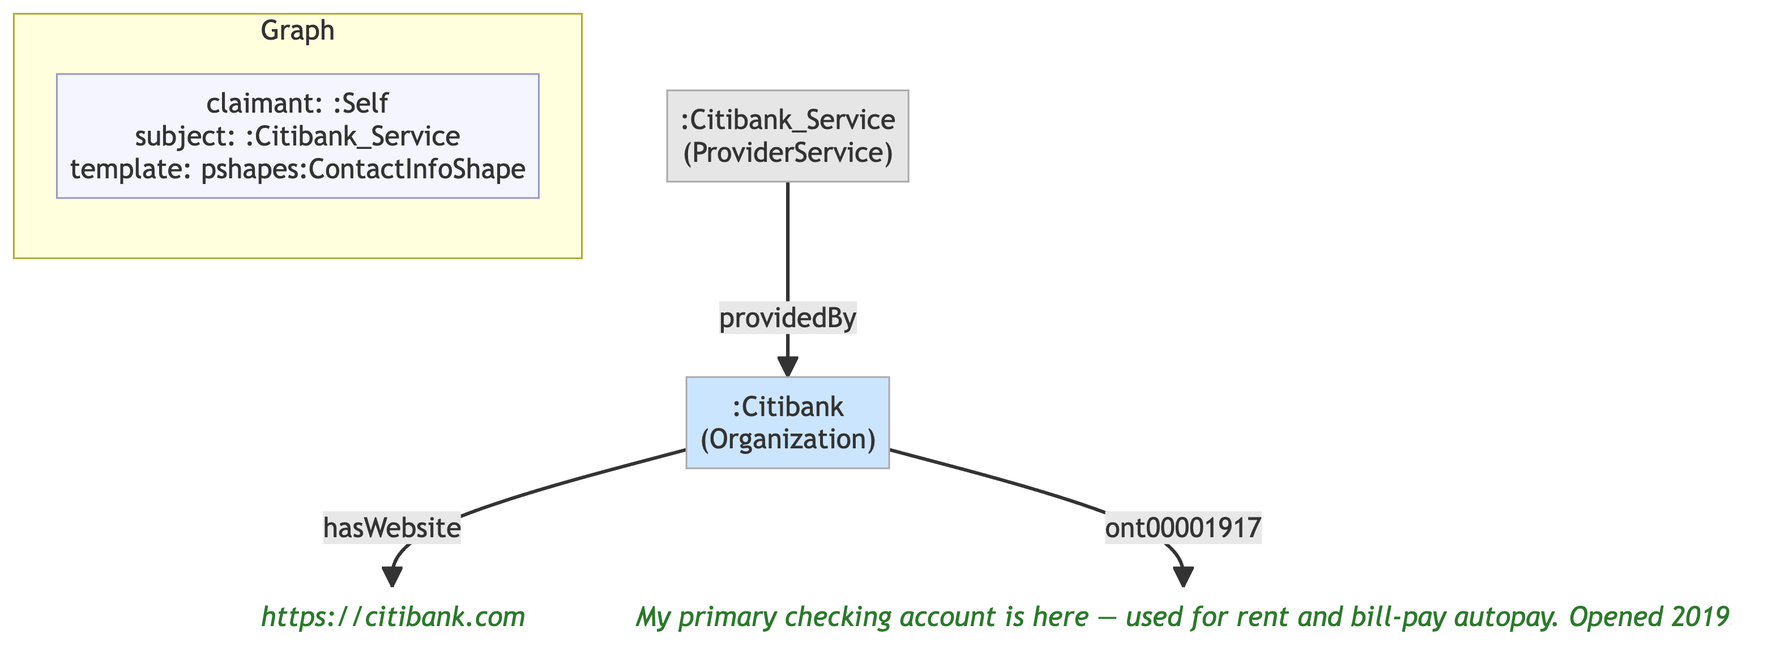
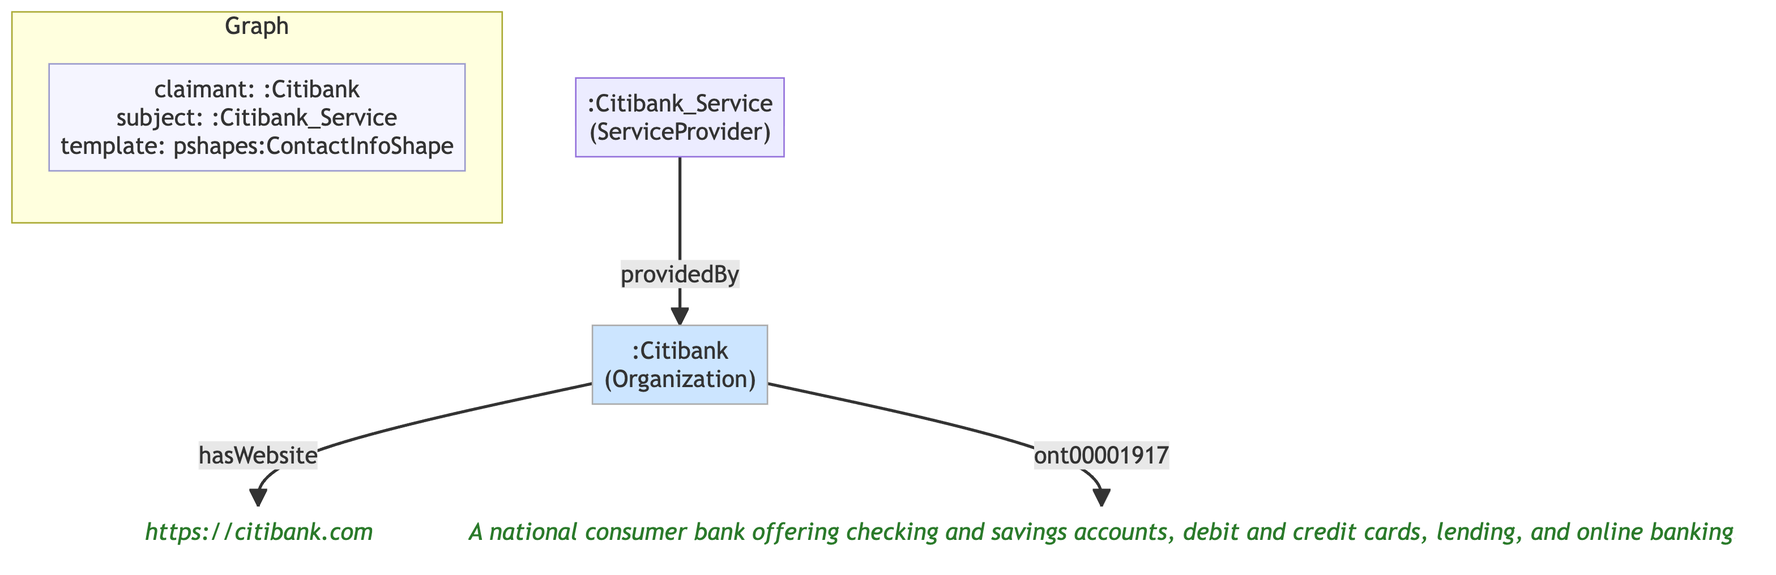
Graph 27: Citibank claims its own member entry
The Citibank cell now mirrors the Boston Hub Society cell, where graph 01
is already a member entry with subject :BHS_Service and claimant :BHS.

- graph-27 claimant :Self -> :Citibank. Per cell.ttl's cell:claimant comment
  and CLAUDE.md's claimant vocabulary, a service:ServiceProvider's content is
  attributed to the service:providedBy organization behind it, not to the
  service individual, so the claimant is :Citibank rather than
  :Citibank_Service. Subject stays :Citibank_Service.
- graph-27 body is now the identity the bank presents as a member: name,
  website, and a neutral institutional self-description, mirroring graph 01.
- Alice's own first-person note about banking at Citibank moves to graph-77,
  her own member entry, still asserted on :Citibank.
- Overviews, cell description, EXAMPLE.md prose and table rows, CLAUDE.md
  table rows and PDN-interoperable graph list, and integrity.md's Check 26
  exemption text updated to match.
- Regenerated graph-27/graph-77 per-graph diagrams.

Verified: both graphs parse; helpers/validate.py 0 violations; Checks
21/23/24/25/26/27/28 clean.

diff --git a/EXAMPLE.md b/EXAMPLE.md
@@ -52,7 +52,7 @@ A `s:BackupService` differs from the `s:ServiceProvider` in the *Citibank* and *
 
 ### Checking Account and Debit Card
 
-Alice has a checking account (and associated debit card) at Citibank. In our example Citibank is compatible with PDN and participates directly, claiming this cell's own topic content — a debit card, a checking account, and Citibank's own record of Alice's online service account — in [graph 76](<example/Cells/Finances/Banking & Payments Firms/Citibank/Citibank(banking-payments).databook.md#graph-76>). It is colored green because the claimant is Citibank, not Alice. Alice separately self-asserts her own username and password for that same online account in [graph 75](<example/Cells/Finances/Banking & Payments Firms/Citibank/Citibank(banking-payments).databook.md#graph-75>), and asserts her own notes about Citibank as an institution in [graph 27](<example/Cells/Finances/Banking & Payments Firms/Citibank/Citibank(banking-payments).databook.md#graph-27>). Alice's own required given-name member entry is [graph 77](<example/Cells/Finances/Banking & Payments Firms/Citibank/Citibank(banking-payments).databook.md#graph-77>).
+Alice has a checking account (and associated debit card) at Citibank. In our example Citibank is compatible with PDN and participates directly, claiming this cell's own topic content — a debit card, a checking account, and Citibank's own record of Alice's online service account — in [graph 76](<example/Cells/Finances/Banking & Payments Firms/Citibank/Citibank(banking-payments).databook.md#graph-76>). It is colored green because the claimant is Citibank, not Alice. Citibank also claims its own member entry, [graph 27](<example/Cells/Finances/Banking & Payments Firms/Citibank/Citibank(banking-payments).databook.md#graph-27>) — the identity the bank presents as one of the cell's two members, carried by `:Citibank_Service`, the `s:ServiceProvider` it provides — and that graph is green for the same reason. Alice separately self-asserts her own username and password for that same online account in [graph 75](<example/Cells/Finances/Banking & Payments Firms/Citibank/Citibank(banking-payments).databook.md#graph-75>). Her own required given-name member entry is [graph 77](<example/Cells/Finances/Banking & Payments Firms/Citibank/Citibank(banking-payments).databook.md#graph-77>), which also carries her own notes about Citibank as an institution.
 
 <p align="center"><img src="example/images/finances.png" alt="Financial cells"></p>
 
@@ -213,7 +213,7 @@ The graphs in the table below are *about* Alice and claimed *by* Alice. The "Cel
 | 62 | [RAV4(vehicles).databook.md](<example/Cells/Things/Vehicles/RAV4/RAV4(vehicles).databook.md#graph-62>) {44} | `cat:Vehicles`     | The RAV4 cell's required member entry — carries her given name (required by `ContactInfoShape`, `c:memberGraphShape`, since this template is `isTopicCell: true`), plus an optional organization name and email          | [view](example/graphs/images/graph-62.png) |
 | 66 | [Kyoto Trip 2027(trips).databook.md](<example/Cells/Travel/Trips/Kyoto Trip 2027/Kyoto Trip 2027(trips).databook.md#graph-66>) {47} | `cat:Trips` | Alice's bare given-name claim, extended with her social network link to Dave — one of the Kyoto Trip cell's three required member entries | [view](example/graphs/images/graph-66.png) |
 | 75 | [Citibank(banking-payments).databook.md](<example/Cells/Finances/Banking & Payments Firms/Citibank/Citibank(banking-payments).databook.md#graph-75>) {4} | `cat:BankingPayments` | Alice's own self-asserted claim about her Citibank online service account — username and password as she herself knows them, distinct from Citibank's own record (graph 76) | [view](example/graphs/images/graph-75.png) |
-| 77 | [Citibank(banking-payments).databook.md](<example/Cells/Finances/Banking & Payments Firms/Citibank/Citibank(banking-payments).databook.md#graph-77>) {4} | `cat:BankingPayments` | The Citibank cell's second required member entry, claimed by and about Alice — a minimal given-name stub, so `:Self` is a genuine member of the cell alongside `:Citibank` (graph 27) | [view](example/graphs/images/graph-77.png) |
+| 77 | [Citibank(banking-payments).databook.md](<example/Cells/Finances/Banking & Payments Firms/Citibank/Citibank(banking-payments).databook.md#graph-77>) {4} | `cat:BankingPayments` | The Citibank cell's second required member entry, claimed by and about Alice — a minimal given-name stub, so `:Self` is a genuine member of the cell alongside `:Citibank_Service` (graph 27), plus her own notes about Citibank as an institution, asserted on `:Citibank` | [view](example/graphs/images/graph-77.png) |
 
 The following table lists graphs that are *about* Alice but claimed by others.
 
@@ -241,7 +241,7 @@ The following table lists graphs about other people (Sophia, Dave, Paula and Bob
 | 26 | [Medical Appointment.databook.md](<example/Cells/People/Immediate Family/Sophia Walker/Health & Wellness/Medical/Provider/Medical Appointment/Medical Appointment.databook.md#graph-26>) {15} | `cat:MedicalAppointment`       | Alice and Dave's shared claims for Sophia's medical appointment — medications, allergies, insurance, PCP reference           | [view](example/graphs/images/graph-26.png)|
 | 28 | [Medical Appointment.databook.md](<example/Cells/People/Immediate Family/Sophia Walker/Health & Wellness/Medical/Provider/Medical Appointment/Medical Appointment.databook.md#graph-28>) {15} | `cat:MedicalAppointment`       | Dave's own self-claimed persona and contact info — one of this cell's two members, alongside Alice (graph 30)           | [view](example/graphs/images/graph-28.png) |
 | 30 | [Medical Appointment.databook.md](<example/Cells/People/Immediate Family/Sophia Walker/Health & Wellness/Medical/Provider/Medical Appointment/Medical Appointment.databook.md#graph-30>) {15} | `cat:MedicalAppointment`       | Alice's own self-claimed contact info — the other of this cell's two members, alongside Dave (graph 28)           | [view](example/graphs/images/graph-30.png) |
-| 27 | [Citibank(banking-payments).databook.md](<example/Cells/Finances/Banking & Payments Firms/Citibank/Citibank(banking-payments).databook.md#graph-27>) {4} | `cat:BankingPayments` | The Citibank cell's other required `member` entry — `:Citibank_Service`, the `s:ServiceProvider` that joins as the member, plus Alice's own self-claimed notes about Citibank as an institution, asserted on `:Citibank`; claimed by Alice, alongside Citibank's own claimed record about her (graph 76) | [view](example/graphs/images/graph-27.png) |
+| 27 | [Citibank(banking-payments).databook.md](<example/Cells/Finances/Banking & Payments Firms/Citibank/Citibank(banking-payments).databook.md#graph-27>) {4} | `cat:BankingPayments` | The Citibank cell's other required `member` entry — the identity Citibank presents as a member, carried by `:Citibank_Service`, the `s:ServiceProvider` the bank provides, plus the bank's own name, website, and institutional self-description on `:Citibank`; claimed by Citibank, alongside its own claimed record about Alice (graph 76) | [view](example/graphs/images/graph-27.png) |
 | 31 | [Fred Flintstone(others).databook.md](<example/Cells/People/Others/Fred Flintstone/Fred Flintstone(others).databook.md#graph-31>) {17}                     | `cat:Others`       | Fred's self-claimed Fred persona                                 | [view](example/graphs/images/graph-31.png) |
 | 32 | [Medical.databook.md](<example/Cells/Pets/Ginger/Medical/Medical.databook.md#graph-32>) {40} | `cat:PetsMedical`       | Alice's record of her cat Ginger's medications — amoxicillin/clavulanate course, ongoing glucosamine/chondroitin supplement           | [view](example/graphs/images/graph-32.png)|
 | 37 | [Ginger(pets).databook.md](<example/Cells/Pets/Ginger/Ginger(pets).databook.md#graph-37>) {41} | `cat:Pets`       | Alice's basic claim identifying Ginger — name, species (Felis catus, NCBITaxon), breed (Mixed Breed (Cat), VBO), birth date, and current body weight — backs the Ginger cell's `subject: ":Ginger"` with a real graph, typed `pets:Pet`           | [view](example/graphs/images/graph-37.png)|

diff --git a/integrity.md b/integrity.md
@@ -612,7 +612,7 @@ print('All cells satisfy the topic-claimant invariants (member-only, distinct).'
 
 If a violation is found: for a `topic` claimed by a non-member, either add that claimant as a new `member` entry first, or — if the claimant is the organization behind a `service:ServiceProvider` that is already a member — add the missing `service:providedBy` triple to that service's own member graph, or reconsider whether the claim really belongs in this cell's `topic` at all. For a repeated claimant across two `topic` entries, merge the two graphs' content into one — a single member can only make one claim about the cell's topic, not two.
 
-**Check 26 — `cell:template`'s declared shape must resolve to an `rdf:type` actually asserted in the graph's own embedded Turtle body**: `cell:template` (`cell.ttl`) is a real `owl:AnnotationProperty` (domain `cell:Graph`, range `sh:NodeShape`, cardinality 0..N), synthesized into RDF from each `mia.member[]`/`mia.topic[].template` YAML value by `helpers/yaml-to-rdf.py`. But SHACL validation of a templated graph never actually reads this synthesized triple — each per-template shape (e.g. `:PassportShape`) fires purely via its own `sh:targetClass`, matching whatever `rdf:type` is asserted directly in the graph's body (e.g. `:Alice_US_Passport rdf:type identitydocuments:Passport`), completely independent of `template:`. So nothing else cross-checks that a graph's declared `template:` shape's own `sh:targetClass` actually names a class asserted on an individual in its own body — a typo'd or stale `template:` value would go undetected, silently decoupled from what SHACL is actually validating. This is not itself an OWL/SHACL-expressible constraint (same reasoning as Checks 18/21/23/24/25 — it requires dereferencing the graph's own embedded Turtle content, not just its YAML frontmatter), so it's checked here instead. For every cell-databook under `example/Cells/` (excluding `under-development/`) with a `mia.member[]`/`mia.topic[].template` value, resolve that shape CURIE to its own `sh:targetClass` (scanning `shacl/persona-shacl.ttl`/`shacl/contactinfo-shacl.ttl` and every `other/shacl/*-shacl.ttl` file for the matching shape, the same scan Check 27 already runs), then verify that same graph's own embedded Turtle body asserts `rdf:type` (directly, on some individual) to that resolved class. **Exempt**: `pshapes:ContactInfoShape` — per `helpers/validate.py`'s own module docstring, this is the one broad, class-wide shape (`sh:targetClass persona:Person`) that `helpers/validate.py` re-targets, at actual validation time, at only the *substantive* `persona:Person` individual(s) present in a graph, precisely because it's legitimate for a `cell:member`-list graph (required to carry this shape unconditionally, per Check 30) to contain none at all — e.g. graph-01 (`Boston Hub Society(affiliations).databook.md`) is the society's own member stub, typing `:BHS_Service` as `service:ServiceProvider` and `:BHS` as `o:Organization`, never `persona:Person`; graph-27 (`Citibank(banking-payments).databook.md`) is the bank's member stub carrying Alice's own note about Citibank as an institution, typing `:Citibank_Service`/`:Citibank` the same way; and graph-96 (`Arca(companies).databook.md`) is a backup service's own member stub, typing `:Arca_Backup` as `service:BackupService` and `:Arca` as `o:Organization` — both correctly, vacuously satisfy `ContactInfoShape` in real SHACL validation with zero `persona:Person` individuals present. Every other shape (e.g. `idocshapes:PassportShape`, `bankingshapes:DebitCardShape`) targets a narrow, specific document/account class that a declaring graph always does instantiate for real (e.g. the real Citibank debit-card graph asserts `rdf:type cco:ent00000051` directly, alongside `banking:DebitCard`), so no other exemption is needed. Run:
+**Check 26 — `cell:template`'s declared shape must resolve to an `rdf:type` actually asserted in the graph's own embedded Turtle body**: `cell:template` (`cell.ttl`) is a real `owl:AnnotationProperty` (domain `cell:Graph`, range `sh:NodeShape`, cardinality 0..N), synthesized into RDF from each `mia.member[]`/`mia.topic[].template` YAML value by `helpers/yaml-to-rdf.py`. But SHACL validation of a templated graph never actually reads this synthesized triple — each per-template shape (e.g. `:PassportShape`) fires purely via its own `sh:targetClass`, matching whatever `rdf:type` is asserted directly in the graph's body (e.g. `:Alice_US_Passport rdf:type identitydocuments:Passport`), completely independent of `template:`. So nothing else cross-checks that a graph's declared `template:` shape's own `sh:targetClass` actually names a class asserted on an individual in its own body — a typo'd or stale `template:` value would go undetected, silently decoupled from what SHACL is actually validating. This is not itself an OWL/SHACL-expressible constraint (same reasoning as Checks 18/21/23/24/25 — it requires dereferencing the graph's own embedded Turtle content, not just its YAML frontmatter), so it's checked here instead. For every cell-databook under `example/Cells/` (excluding `under-development/`) with a `mia.member[]`/`mia.topic[].template` value, resolve that shape CURIE to its own `sh:targetClass` (scanning `shacl/persona-shacl.ttl`/`shacl/contactinfo-shacl.ttl` and every `other/shacl/*-shacl.ttl` file for the matching shape, the same scan Check 27 already runs), then verify that same graph's own embedded Turtle body asserts `rdf:type` (directly, on some individual) to that resolved class. **Exempt**: `pshapes:ContactInfoShape` — per `helpers/validate.py`'s own module docstring, this is the one broad, class-wide shape (`sh:targetClass persona:Person`) that `helpers/validate.py` re-targets, at actual validation time, at only the *substantive* `persona:Person` individual(s) present in a graph, precisely because it's legitimate for a `cell:member`-list graph (required to carry this shape unconditionally, per Check 30) to contain none at all — e.g. graph-01 (`Boston Hub Society(affiliations).databook.md`) is the society's own member stub, typing `:BHS_Service` as `service:ServiceProvider` and `:BHS` as `o:Organization`, never `persona:Person`; graph-27 (`Citibank(banking-payments).databook.md`) is the bank's own member stub, carrying its name, website, and institutional self-description, typing `:Citibank_Service`/`:Citibank` the same way; and graph-96 (`Arca(companies).databook.md`) is a backup service's own member stub, typing `:Arca_Backup` as `service:BackupService` and `:Arca` as `o:Organization` — both correctly, vacuously satisfy `ContactInfoShape` in real SHACL validation with zero `persona:Person` individuals present. Every other shape (e.g. `idocshapes:PassportShape`, `bankingshapes:DebitCardShape`) targets a narrow, specific document/account class that a declaring graph always does instantiate for real (e.g. the real Citibank debit-card graph asserts `rdf:type cco:ent00000051` directly, alongside `banking:DebitCard`), so no other exemption is needed. Run:
 
 ```python
 import re, yaml, glob

diff --git a/CLAUDE.md b/CLAUDE.md
@@ -39,8 +39,8 @@ Every graph below is an embedded section (a `mia.member`/`mia.topic` entry + `##
 | Graph 94 — `example/Cells/Work/Acme/Acme(organization).databook.md` | Acme's own `o:Organization` profile — employee count (`o:numMembers` 2400) and website; the cell's `cell:topic`, claimed by Alice |
 | Graph 76 — `example/Cells/Finances/Banking & Payments Firms/Citibank/Citibank(banking-payments).databook.md` | Citibank's own claimed record about Alice — VISA debit card, linked checking account, and online service account; claimed by Citibank (the organization, reached from the member subject `:Citibank_Service` via `service:providedBy`) |
 | Graph 75 — `example/Cells/Finances/Banking & Payments Firms/Citibank/Citibank(banking-payments).databook.md` | Alice's own self-asserted claim about her Citibank online service account — username and password |
-| Graph 77 — `example/Cells/Finances/Banking & Payments Firms/Citibank/Citibank(banking-payments).databook.md` | The Citibank cell's second required `member` entry, claimed by and about Alice — a minimal given-name stub |
-| Graph 27 — `example/Cells/Finances/Banking & Payments Firms/Citibank/Citibank(banking-payments).databook.md` | The Citibank cell's other required `member` entry — `:Citibank_Service`, the `service:ServiceProvider` that joins as the member, plus Alice's own self-claimed notes about Citibank as an institution; claimed by Alice, alongside Citibank's own claimed record about her (graph 76) |
+| Graph 77 — `example/Cells/Finances/Banking & Payments Firms/Citibank/Citibank(banking-payments).databook.md` | The Citibank cell's second required `member` entry, claimed by and about Alice — a minimal given-name stub, plus her own notes about Citibank as an institution |
+| Graph 27 — `example/Cells/Finances/Banking & Payments Firms/Citibank/Citibank(banking-payments).databook.md` | The Citibank cell's other required `member` entry — the identity Citibank presents as a member, carried by `:Citibank_Service`, the `service:ServiceProvider` the bank provides, plus the bank's own name, website, and institutional self-description; claimed by Citibank, alongside its own claimed record about her (graph 76) |
 | Graph 86 — `example/Cells/Finances/Banking & Payments Firms/Banking & Payments Firms(banking-payments).databook.md` | The Banking & Payments Firms scaffold cell's required `topic` — deliberately empty, since its real content lives in its own leaf cell (Citibank) instead |
 | Graph 16 — `example/Cells/Companies/Google/Google(companies).databook.md` | The Google cell's required `member` entry, claimed by Alice — carries her given name (required by `ContactInfoShape`, `cell:memberGraphShape`, since this template is `isTopicCell: true`), plus an optional organization name and email |
 | Graph 73 — `example/Cells/Companies/Google/Google(companies).databook.md` | Alice's basic claim about her Google account itself — as the Google cell's sole `topic`, its own `subject: ":Alice_Google_Account"` is what the cell's derived subject resolves to (see integrity.md's Check 18); typed `serviceaccounts:ServiceAccount`, also multi-typed `cco:ent00000033` (Online Service Account) — service name, username (her Gmail address), and password |
@@ -150,7 +150,7 @@ http://www.example.org/mia/graphs/graph-<NN>
 
 `<NN>` is the same zero-padded two-digit graph number used everywhere else for this graph — the diagram label, the `### Graph NN` body heading, and its `<a id="graph-NN">` anchor. A `mia.member`/`mia.topic` entry carries this full IRI directly as its own `id` field — there's no separate list to cross-reference it against.
 
-**`claimant` vocabulary** (a `mia.member`/`mia.topic` entry's own field): takes the local IRI of a `p:Person`, `o:Organization`, or `service:Service` individual — NOT an `i:PDNidentifier`. Which of the three a graph names turns on who is *really* making the claim, not on which member mechanically carries it. Specifically: `:Self` (the user's `p:Person`) for self-claimed graphs; a named `p:Person` individual (e.g. `:Bob_Johnson`) when another user claims the data; a named `o:Organization` individual (e.g. `:Citibank`, `:BHS`) for content contributed by a `service:ServiceProvider` that organization provides, since the organization is the responsible party and the one an eventual cryptographic signature would name; and a named `service:Service` individual (e.g. `:Alice_Travel_Agent`, `:Arca_Backup`) for a service with no organization standing behind it in the relationship. Note that an organization claimant need not be a member subject — it is reached from one via `service:providedBy`, which is what integrity.md's Check 25 allows for. An organization only ever appears as a claimant when it is PDN-interoperable; in the example data **only Citibank and the Boston Hub Society are** (graphs `graph-76`, and `graph-01`/`graph-92`). All other organization-related graphs (Google, AT&T, SSA, etc.) use `claimant: ":Self"` because Alice self-enters that data — those organizations aren't PDN-interoperable. (This distinction is currently just a data-modeling convention in the example, not formally enforced by any property — `pdn-identity.ttl` defines no property for it.)
+**`claimant` vocabulary** (a `mia.member`/`mia.topic` entry's own field): takes the local IRI of a `p:Person`, `o:Organization`, or `service:Service` individual — NOT an `i:PDNidentifier`. Which of the three a graph names turns on who is *really* making the claim, not on which member mechanically carries it. Specifically: `:Self` (the user's `p:Person`) for self-claimed graphs; a named `p:Person` individual (e.g. `:Bob_Johnson`) when another user claims the data; a named `o:Organization` individual (e.g. `:Citibank`, `:BHS`) for content contributed by a `service:ServiceProvider` that organization provides, since the organization is the responsible party and the one an eventual cryptographic signature would name; and a named `service:Service` individual (e.g. `:Alice_Travel_Agent`, `:Arca_Backup`) for a service with no organization standing behind it in the relationship. Note that an organization claimant need not be a member subject — it is reached from one via `service:providedBy`, which is what integrity.md's Check 25 allows for. An organization only ever appears as a claimant when it is PDN-interoperable; in the example data **only Citibank and the Boston Hub Society are** (graphs `graph-27`/`graph-76`, and `graph-01`/`graph-92`). All other organization-related graphs (Google, AT&T, SSA, etc.) use `claimant: ":Self"` because Alice self-enters that data — those organizations aren't PDN-interoperable. (This distinction is currently just a data-modeling convention in the example, not formally enforced by any property — `pdn-identity.ttl` defines no property for it.)
 
 **"Other" claimants**: When the claimant is someone other than the current user (`:Self`), the claimant is a named individual of one of:
 - `p:Person` — another user (a different person, e.g. `:Bob_Johnson` claiming data about Alice)

diff --git a/example/Cells/Finances/Banking & Payments Firms/Citibank/Citibank(banking-payments).databook.md b/example/Cells/Finances/Banking & Payments Firms/Citibank/Citibank(banking-payments).databook.md
@@ -10,15 +10,15 @@ description: >
   Alice's own self-asserted service-account username/password, the other Citibank's own claimed
   record (debit card, checking account, online service account). An o:Organization is not
   member-capable, so the bank participates through :Citibank_Service, the service:ServiceProvider
-  it provides; its topic graph is still claimed by :Citibank itself, the party really making
-  those claims.
+  it provides; both that member graph and the topic graph are claimed by :Citibank itself, the
+  party really making those claims.
 mia:
   category: "cat:BankingPayments"
   creator: ":Self"
   owner: ":Self"
   member:
     - id: "http://www.example.org/mia/graphs/graph-27"
-      claimant: ":Self"
+      claimant: ":Citibank"
       subject: ":Citibank_Service"
       template: "pshapes:ContactInfoShape"
     - id: "http://www.example.org/mia/graphs/graph-77"
@@ -46,12 +46,12 @@ mia:
 
 #### Overview
 
-This graph is one of the cell's two required `member` entries — the bank's side of the relationship. An `o:Organization` is never itself a `cell:member` subject, so what joins the cell is `:Citibank_Service`, the `service:ServiceProvider` the bank provides, carrying `service:providedBy :Citibank`. The substance of the graph is Alice Walker's own self-claimed notes about Citibank as an institution — her own record of the organization, asserted on `:Citibank` where it belongs, and distinct from Citibank's own claimed record about her (graph 76). Alice is the claimant here, since these are her notes, not the bank's.
+This graph captures the identity Citibank presents as one of the cell's two members — the bank's side of the relationship. An `o:Organization` is never itself a `cell:member` subject, so what joins the cell is `:Citibank_Service`, the `service:ServiceProvider` the bank provides, carrying `service:providedBy :Citibank`. The bank's name, website, and short institutional self-description sit on `:Citibank` itself, where they belong; its own claimed record about Alice (debit card, checking account, online service account) is the cell's `cell:topic` instead, graph 76. Citibank — the organization, not the service — is the claimant, since it is the party really making the claim and the one an eventual cryptographic signature would name. Alice's own notes about banking here are her claim, not the bank's, and live in her own member graph instead (graph 77).
 
 #### Graph
 
 ```turtle
-<!-- databook:id: alice-citibank-org-graph -->
+<!-- databook:id: citibank-org-graph -->
 <!-- databook:graph: http://www.example.org/mia/graphs/graph-27#graph -->
 @prefix : <http://www.example.org/mia#> .
 @prefix o: <http://mee.foundation/ontologies/organization#> .
@@ -74,7 +74,7 @@ This graph is one of the cell's two required `member` entries — the bank's sid
 
     <https://w3id.org/cco-domains/cco/ont00001917> [  # described by → Organization Note
         rdf:type cco:ent00000048 ;
-        <https://w3id.org/cco-domains/cco/ont00001765> "My primary checking account is here — used for rent and bill-pay autopay. Opened 2019."
+        <https://w3id.org/cco-domains/cco/ont00001765> "A national consumer bank offering checking and savings accounts, debit and credit cards, lending, and online banking."
     ] .
 ```
 
@@ -83,7 +83,7 @@ This graph is one of the cell's two required `member` entries — the bank's sid
 
 #### Overview
 
-This graph is one of the cell's two required `member` entries, claimed by and about `:Self` — a minimal given-name stub, so `:Self` is a genuine member of this cell (see Check 21) alongside `:Citibank` (graph 27), matching the diagram's two member circles. Note: this makes the cell's own `member` subjects (`:Self`, `:Citibank`) overlap with its `topic` subject (`:Self`, from graphs 75/76) — a known, deliberately-deferred Check 18 tension.
+This graph is one of the cell's two required `member` entries, claimed by and about `:Self` — a minimal given-name stub, so `:Self` is a genuine member of this cell (see Check 21) alongside `:Citibank_Service` (graph 27), matching the diagram's two member shapes. It also carries Alice's own notes about Citibank as an institution, asserted on `:Citibank` where they belong: these are her claims about why she banks there, not the bank's, so they sit in the graph she claims rather than in Citibank's own member graph. Note: this makes the cell's own `member` subjects (`:Self`, `:Citibank_Service`) overlap with its `topic` subject (`:Self`, from graphs 75/76) — a known, deliberately-deferred Check 18 tension.
 
 #### Graph
 
@@ -91,9 +91,11 @@ This graph is one of the cell's two required `member` entries, claimed by and ab
 <!-- databook:id: alice-citibank-member-graph -->
 <!-- databook:graph: http://www.example.org/mia/graphs/graph-77#graph -->
 @prefix : <http://www.example.org/mia#> .
+@prefix o: <http://mee.foundation/ontologies/organization#> .
 @prefix cco: <https://w3id.org/cco-domains/cco/> .
 @prefix owl: <http://www.w3.org/2002/07/owl#> .
 @prefix rdf: <http://www.w3.org/1999/02/22-rdf-syntax-ns#> .
+@prefix rdfs: <http://www.w3.org/2000/01/rdf-schema#> .
 @prefix persona: <http://mee.foundation/ontologies/persona#> .
 
 :Self rdf:type owl:NamedIndividual ,
@@ -102,14 +104,15 @@ This graph is one of the cell's two required `member` entries, claimed by and ab
 :Self <https://w3id.org/cco-domains/cco/ont00001879> [  # designated by → GivenName (ContactInfoShape)
         rdf:type cco:ent00000002 ;
         <https://w3id.org/cco-domains/cco/ont00001765> "Alice"
-    ] ,
-    [  # designated by → OrganizationName (ContactInfoShape)
-        rdf:type cco:ent00000047 ;
-        <https://w3id.org/cco-domains/cco/ont00001765> "Acme"
-    ] ,
-    [  # designated by → EmailAddress (ContactInfoShape)
-        rdf:type cco:ent00000024 ;
-        <https://w3id.org/cco-domains/cco/ont00001765> "alice@acme.com"
+    ] .
+
+:Citibank rdf:type owl:NamedIndividual ,
+                   o:Organization ;
+    rdfs:label "Citibank"@en ;
+
+    <https://w3id.org/cco-domains/cco/ont00001917> [  # described by → Organization Note
+        rdf:type cco:ent00000048 ;
+        <https://w3id.org/cco-domains/cco/ont00001765> "My primary checking account is here — used for rent and bill-pay autopay. Opened 2019."
     ] .
 ```
 
